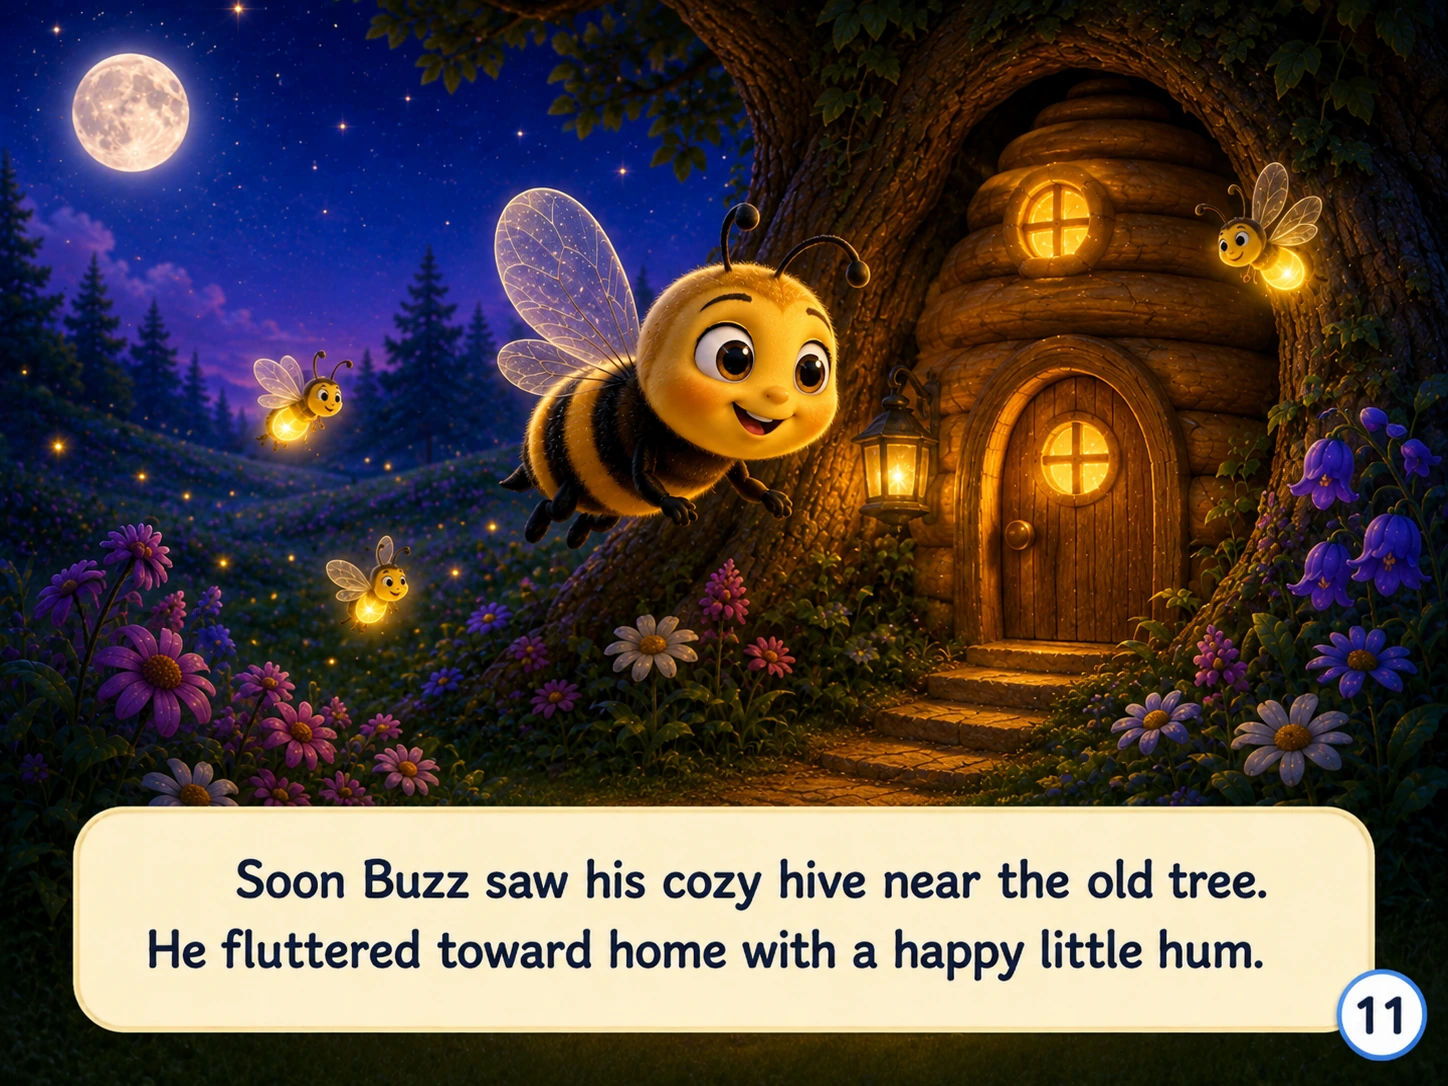
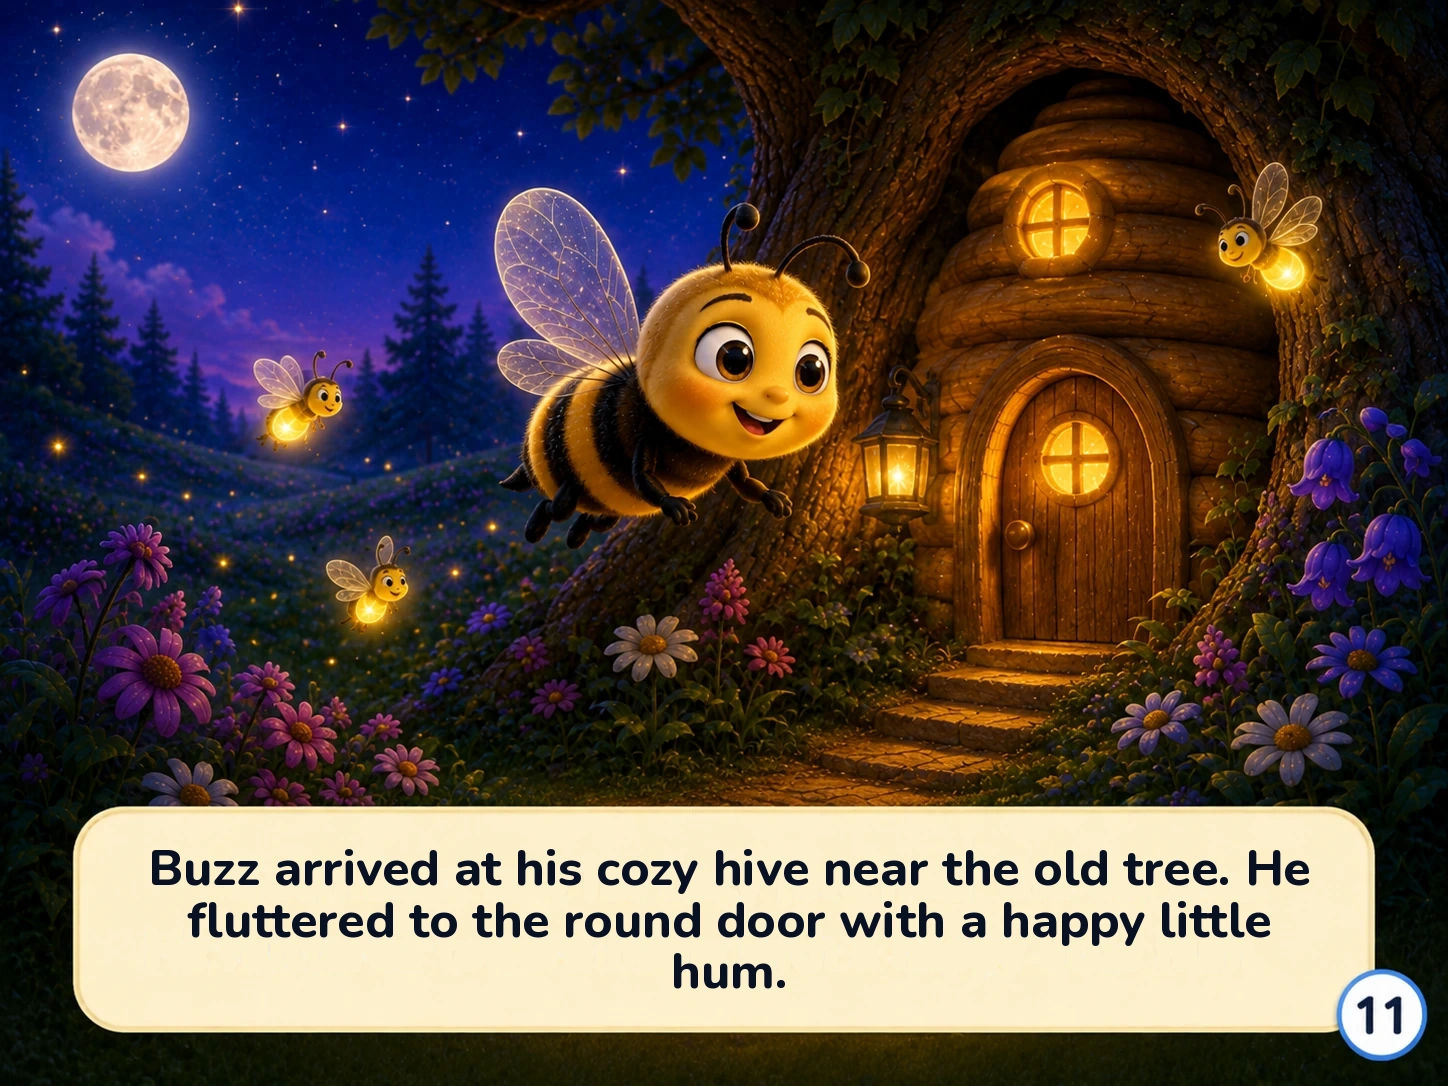
Polish Group B page order without redrawing the pictures.
Towie's muddy check, Lila's reach, the hill lookout, Finn's dock, Buzz's homecoming, and Marley's last letter now follow the art.

Changed region(s): [[0.0932, 0.7597, 0.9012, 0.9116]]

diff --git a/app.js b/app.js
@@ -288,7 +288,7 @@ narration: [
   "Slowly, slowly, the mud began to loosen. Willow wiggled this way and that.",
   "The muddy patch let go a little more. ‘That’s it!’ cheered Towie with a happy smile.",
   "With one careful pull, Willow rolled free. ‘Thank you, Towie!’ she said with a happy beep.",
-  "With one careful pull, Willow rolled free at last. ‘Thank you, Towie!’ she cheered.",
+  "Willow was free, but still muddy. Towie gave her a careful check. “You are safe,” he said.",
   "Towie guided Willow to a dry, safe spot. The village friends clapped and smiled.",
   "At the little garage, Towie checked Willow’s wheels. ‘All safe and sound!’ he said.",
   "Willow drove slowly beside Towie through Willow Vale. The sky turned soft and golden.",
@@ -330,8 +330,8 @@ narration: [
   "Then Lila spotted a red balloon on the bakery roof. “We should help before the wind blows it away,” she said.",
   "The balloon landed on the bakery rooftop near the chimney. It wiggled in the breeze and would not come down.",
   "Lila carefully raised her ladder up, up, up. She moved slowly so the balloon would not pop.",
-  "With a gentle nudge, the balloon floated into her waiting hook. ‘Got it!’ cheered Lila.",
-  "Up went Lila’s ladder, click by click. Everyone watched quietly as she reached toward the rooftop.",
+  "Lila’s hook came close to the red balloon. She moved slowly and carefully.",
+  "Friends gathered on the street and watched quietly. Lila held her ladder very still.",
   "Then a little gust of wind pushed the balloon farther along the roof. “Almost,” whispered Lila, staying calm and careful.",
   "“Please keep the street clear,” Lila said to her friends. Then she stretched her ladder a little farther toward the balloon.",
   "The little girl held her balloon tight. “Thank you, Lila!” she said with a smile.",
@@ -517,7 +517,7 @@ narration: [
   "His friends cheered from the bottom of the hill. ‘You can do it!’ they called.",
   "Son-uva Digger found a smooth line up the slope. Grip, grip, grip went his big tires.",
   "Near the top, the moon shone bright. Son-uva Digger felt brave and strong.",
-  "At last, he reached the top of Moonbeam Hill. He smiled at the sparkling town below.",
+  "He stopped at a high lookout. He smiled at the sparkling town below and rested.",
   "Near the top, Son-uva Digger slowed down and took a careful breath. ‘Almost there,’ he whispered.",
   "At last he reached the hilltop. The moon shone bright above him.",
   "Below him, the little lights of the town twinkled softly.",
@@ -564,9 +564,9 @@ narration: [
   "Soon they turned back toward Seabreeze Harbor. The little sailboat felt much better.",
   "At the dock, harbor friends waved and cheered. “Hooray for Finn!” they called.",
   "Finn smiled as the little sailboat came safely in. The warm sunset made the harbor glow.",
-  "Slowly, Finn turned the little sailboat around. The dock lights began to glow ahead.",
-  "The little sailboat smiled. “Thank you, Finn,” he said. “I'm glad you helped me find my way.”",
-  "Together they glided back into Seabreeze Harbor. The water shimmered softly in the evening light.",
+  "Finn held the tow line snug beside the dock. The little sailboat stayed close and safe.",
+  "The little sailboat smiled. “Thank you, Finn,” he said. “I’m glad to be back at the dock.”",
+  "Finn kept the line gentle while they rested by the dock. The water shimmered softly in the evening light.",
   "At the dock, harbor friends waved good night. Everyone felt safe and happy again.",
   "Finn made one last calm patrol past the lighthouse. Seabreeze Harbor was peaceful and still.",
   "Then Finn rested by the dock and watched the moon. Good night, Finn. Sleep tight!"
@@ -1503,7 +1503,7 @@ speechText: [
     "Next came a card for the yellow house with the moon mailbox. Marley rolled carefully over the quiet street.",
     "One parcel was for the baker on Cherry Corner. Olive spotted the red door right away.",
     "Soon only one last letter remained. Marley checked the silver star stamp and smiled.",
-    "At last every letter rested in the right mailbox. Moonberry Lane felt peaceful, and Marley was proud.",
+    "Marley and Olive checked one more mailbox. One letter was still left to sort.",
     "Olive checked the last letter and gave a gentle hoot. ‘This one belongs across Moonberry Lane,’ she said.",
     "The door opened with a creak, and a sleepy bunny smiled wide. ‘That missing letter is for me!’ he cheered.",
     "Olive spotted one more envelope tucked beside Marley's seat. ‘Let's make one more stop,’ she said with a grin.",
@@ -1603,9 +1603,9 @@ speechText: [
     "The glowing fireflies made a sparkling trail. Buzz followed their lights over flowers and through the fog.",
     "Past tall grass and sleepy petals, the little lights led Buzz gently across the meadow.",
     "At last Buzz saw his cozy hive glowing near an old tree. He thanked the fireflies for their kindness.",
-    "Buzz reached home safely, and the moon shone softly above the meadow as the fireflies twinkled goodnight.",
+    "Buzz flew toward his cozy hive. The moon shone softly, and the fireflies lit the path.",
     "Buzz thanked the little fireflies for their help. Their tiny lights twinkled warmly in the moonlit air.",
-    "Soon Buzz saw his cozy hive near the old tree. He fluttered toward home with a happy little hum.",
+    "Buzz arrived at his cozy hive near the old tree. He fluttered to the round door with a happy little hum.",
     "Inside, Buzz’s family was resting. They smiled softly when he flew safely home.",
     "Buzz curled up in his soft honeycomb bed. He felt warm, safe, and ready for sleep.",
     "Outside, the meadow grew calm and quiet. The little fireflies danced a gentle goodnight.",
